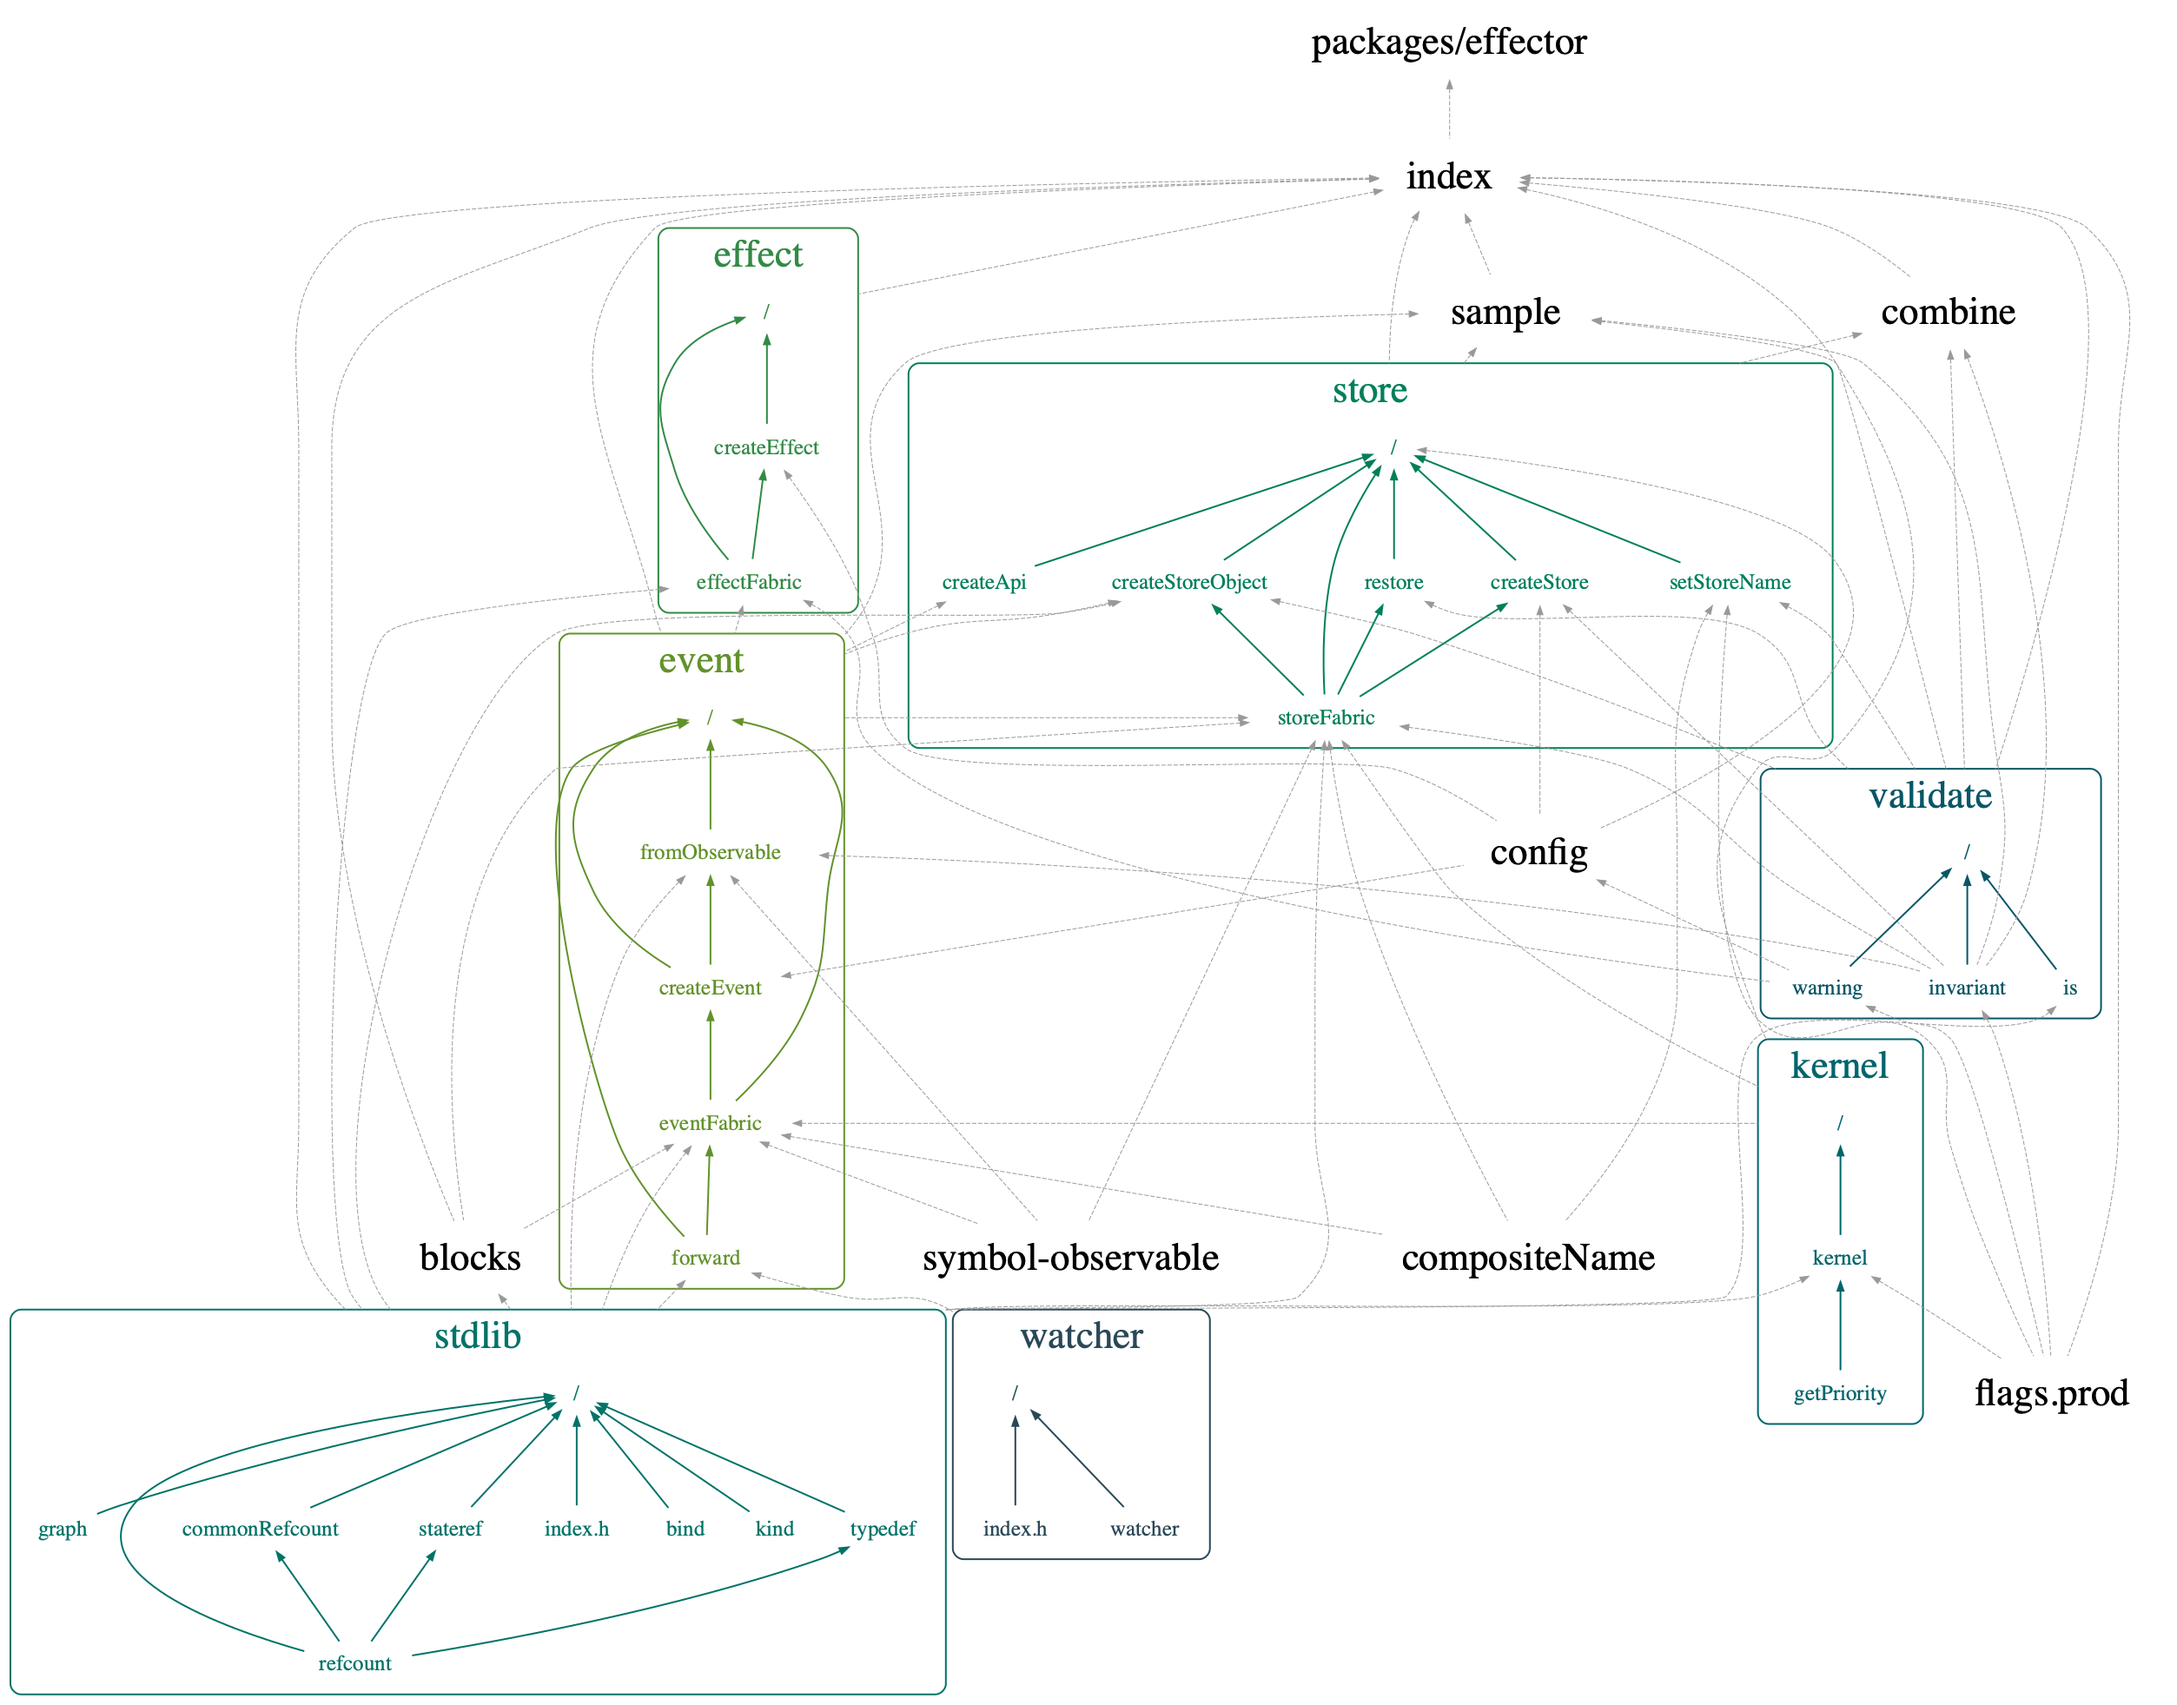
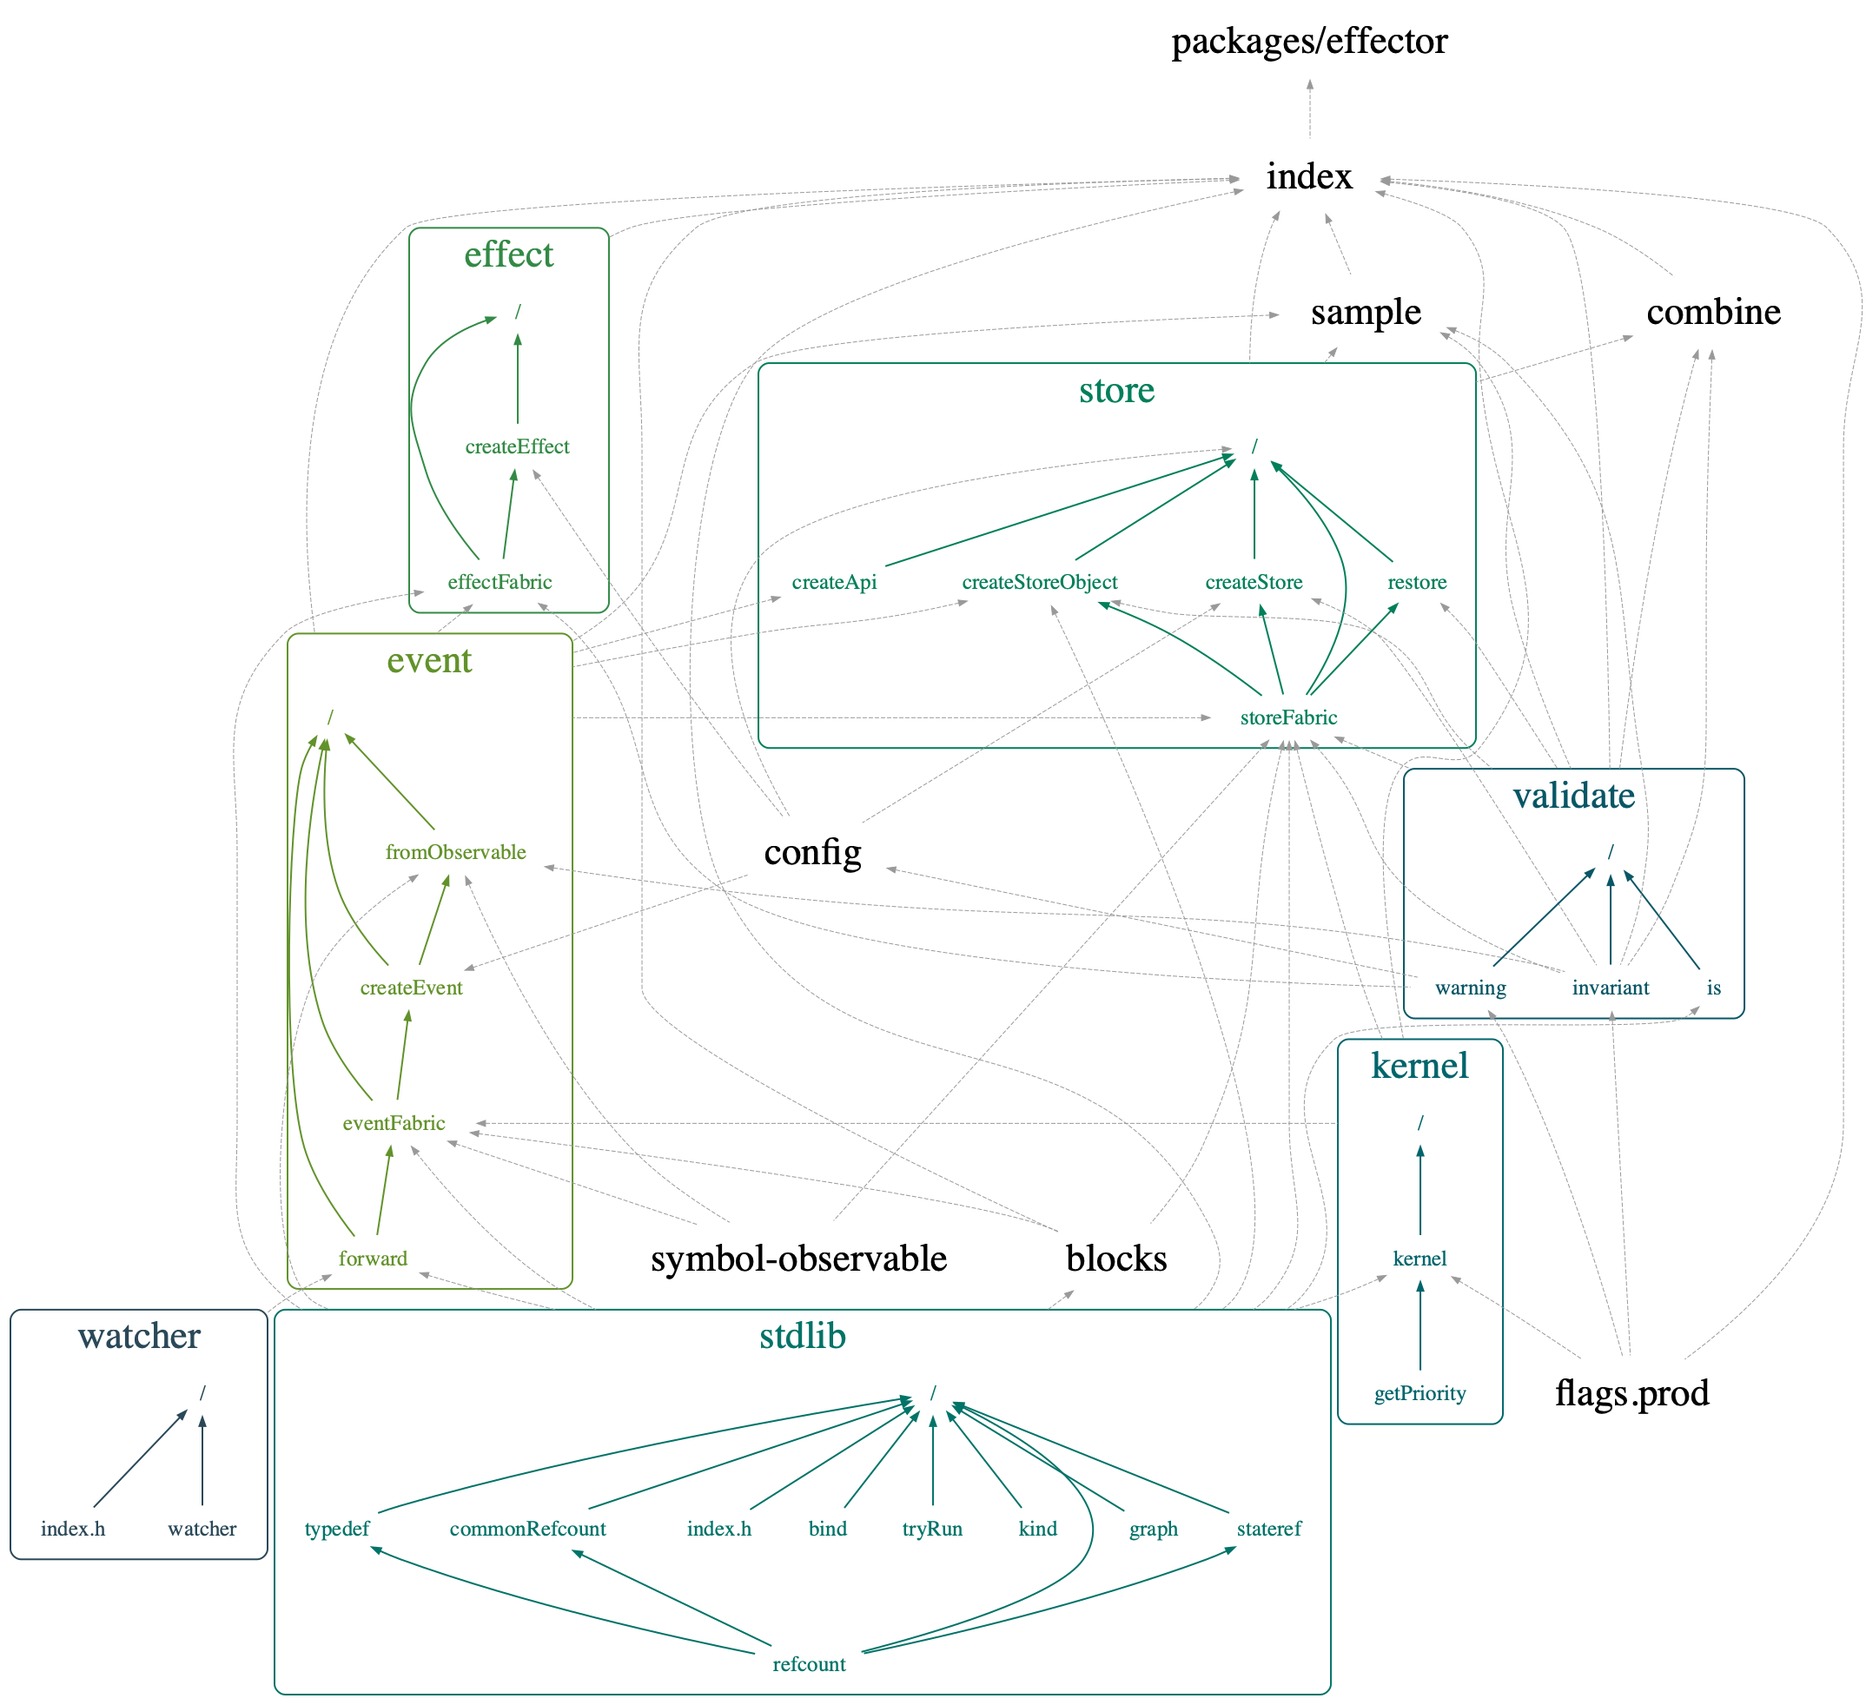
remove complex naming

diff --git a/src/effector/store/storeFabric.js b/src/effector/store/storeFabric.js
@@ -2,6 +2,7 @@
 import $$observable from 'symbol-observable'
 
 import invariant from 'invariant'
+import {is} from 'effector/validate'
 import {
   step,
   createGraph,
@@ -10,26 +11,24 @@ import {
   readRef,
   writeRef,
   bind,
+  initialRun,
   type Unit,
 } from 'effector/stdlib'
 import {filterChanged, noop} from 'effector/blocks'
 import type {Store} from './index.h'
 import type {Subscriber} from '../index.h'
 import type {StoreConfigPart as ConfigPart} from '../config'
-import {createName, type CompositeName} from '../compositeName'
 
 import {launch} from 'effector/kernel'
-import {forward, type Event} from 'effector/event'
+import {forward} from 'effector/event'
 
 export function storeFabric<State>(props: {
   currentState: State,
   config?: ConfigPart,
-  parent?: CompositeName,
 }): Store<State> {
-  const {currentState, config = {}, parent} = props
+  const {currentState, config = {}} = props
   const plainState = createStateRef(currentState)
   const currentId = config.name ?? plainState.id
-  const compositeName = createName(currentId, parent)
 
   const graphite = createGraph({
     scope: {state: plainState, oldState: currentState},
@@ -51,7 +50,6 @@ export function storeFabric<State>(props: {
   })
 
   const store: $Shape<Store<State>> = {
-    compositeName,
     graphite,
     kind: Kind.store,
     id: plainState.id,
@@ -77,7 +75,7 @@ export function storeFabric<State>(props: {
 const reset = (storeInstance, event: Unit) =>
   on(storeInstance, event, () => storeInstance.defaultState)
 
-function off({subscribers}, event: Unit) {
+const off = ({subscribers}, event: Unit) => {
   const currentSubscription = subscribers.get(event)
   if (currentSubscription === undefined) return
   currentSubscription()
@@ -112,7 +110,7 @@ const on = (storeInstance, from: Unit, handler: Function) => {
   )
   return storeInstance
 }
-function observable(storeInstance) {
+const observable = storeInstance => {
   const result = {
     subscribe(observer: Subscriber<any>) {
       invariant(
@@ -132,21 +130,27 @@ function observable(storeInstance) {
   }
   return result
 }
-function watch(storeInstance, eventOrFn: Event<*> | Function, fn?: Function) {
+function watch(storeInstance, eventOrFn: Unit | Function, fn?: Function) {
   const message = 'watch requires function handler'
-  switch (eventOrFn?.kind) {
-    case 'store':
-    case 'event':
-    case 'effect':
-      invariant(typeof fn === 'function', message)
-      return eventOrFn.watch(payload =>
-        //$todo
-        fn(storeInstance.getState(), payload),
-      )
-    default:
-      invariant(typeof eventOrFn === 'function', message)
-      return subscribe(storeInstance, eventOrFn)
+  if (is.unit(eventOrFn)) {
+    invariant(typeof fn === 'function', message)
+    //TODO we need to push update immediately in case of store, aren't we?
+    //note that in another watch case it already implemented
+    return forward({
+      from: (eventOrFn: any),
+      to: createGraph({
+        scope: {handler: fn, state: storeInstance.stateRef},
+        node: [
+          noop,
+          step.run({
+            fn: (upd, {handler, state}) => handler(readRef(state), upd),
+          }),
+        ],
+      }),
+    })
   }
+  invariant(typeof eventOrFn === 'function', message)
+  return subscribe(storeInstance, eventOrFn)
 }
 function subscribe(storeInstance, listener: Function) {
   invariant(
@@ -154,12 +158,7 @@ function subscribe(storeInstance, listener: Function) {
     'Expected the listener to be a function',
   )
   let lastCall = storeInstance.getState()
-
-  try {
-    listener(lastCall)
-  } catch (err) {
-    console.error(err)
-  }
+  initialRun(() => listener(lastCall))
   return forward({
     from: storeInstance,
     to: createGraph({
@@ -186,14 +185,8 @@ function mapStore<A, B>(
   fn: (state: A, lastState?: B) => B,
   firstState?: B,
 ): Store<B> {
-  let lastResult
-  try {
-    lastResult = fn(store.getState(), firstState)
-  } catch (err) {
-    console.error(err)
-  }
   const innerStore: Store<any> = storeFabric({
-    currentState: lastResult,
+    currentState: initialRun(() => fn(store.getState(), firstState)),
   })
   forward({
     from: store,

diff --git a/src/effector/event/eventFabric.js b/src/effector/event/eventFabric.js
@@ -16,7 +16,6 @@ import {noop, updateHandler} from 'effector/blocks'
 import type {Subscription} from '../index.h'
 import type {EventConfigPart} from '../config'
 import type {Event} from './index.h'
-import {createName} from '../compositeName'
 import {forward} from './forward'
 
 const nextID = stringRefcount()
@@ -30,12 +29,10 @@ export function eventFabric<Payload>({
 } = {}): Event<Payload> {
   const id = nextID()
   const name = nameRaw || id
-  const compositeName = createName(name)
-  const fullName = compositeName.fullName
   const graphite = createGraph({
     node: [
       step.emit({
-        fullName,
+        fullName: name,
       }),
     ],
   })
@@ -55,7 +52,6 @@ export function eventFabric<Payload>({
   ;(instance: any).subscribe = bind(subscribe, instance)
   instance.graphite = graphite
   instance.shortName = name
-  instance.compositeName = compositeName
   instance.defaultConfig = config
 
   return instance

diff --git a/src/effector/effect/index.h.js b/src/effector/effect/index.h.js
@@ -2,7 +2,6 @@
 import type {Subscription, Subscriber} from '../index.h'
 import type {kind, Graph, Unit} from 'effector/stdlib'
 import type {Event} from 'effector/event'
-import type {CompositeName} from '../compositeName'
 
 export type Effect<Params, Done, Fail = Error> = /*::interface extends Unit*/ {
   /*::
@@ -25,7 +24,6 @@ export type Effect<Params, Done, Fail = Error> = /*::interface extends Unit*/ {
   +kind: kind,
   shortName: string,
   graphite: Graph,
-  compositeName: CompositeName,
 }
 
 export type FnEffect<Params, Done, Fail = Error, +Fn = Function> = {
@@ -49,7 +47,6 @@ export type FnEffect<Params, Done, Fail = Error, +Fn = Function> = {
   +kind: kind,
   shortName: string,
   graphite: Graph,
-  compositeName: CompositeName,
 }
 
 export type Thunk<Args, Done> = (_: Args) => Promise<Done>

diff --git a/src/effector/kernel/__tests__/leftist.test.js b/src/effector/kernel/__tests__/leftist.test.js
@@ -1,5 +1,6 @@
 //@flow
 import faker from 'faker'
+import * as fs from 'fs-extra'
 // import prettyHrtime from 'pretty-hrtime'
 import {singleton, insert, iterate, type leftist} from '../leftist'
 class Cmd {
@@ -50,7 +51,7 @@ test('it works', () => {
 
   // console.table((iterate(threeTree, cmdGreaterThan): any))
 })
-test('stress', () => {
+test('stress', async() => {
   const AMOUNT = 100
   faker.seed(0xdeadbeef)
   const namesSet = Array.from({length: AMOUNT}, () => faker.name.firstName())
@@ -80,5 +81,6 @@ test('stress', () => {
   expect(order).toMatchSnapshot()
   expect(tree).toMatchSnapshot()
 
-  // console.table((order: any))
+  console.table((order: any))
+  await fs.outputJSON(__dirname + '/out.json', cmds)
 })

diff --git a/src/effector/store/index.h.js b/src/effector/store/index.h.js
@@ -3,7 +3,6 @@ import type {Subscription} from '../index.h'
 import type {Graph, kind, StateRef, ID, Unit} from 'effector/stdlib'
 import type {Event} from 'effector/event'
 import type {Effect} from 'effector/effect'
-import type {CompositeName} from '../compositeName'
 import type {StoreConfigPart} from '../config'
 
 export type Store<State> = /*::interface extends Unit*/ {
@@ -55,6 +54,5 @@ export type Store<State> = /*::interface extends Unit*/ {
   +defaultState: State,
   shortName: string,
   +graphite: Graph,
-  compositeName?: CompositeName,
   defaultConfig: StoreConfigPart,
 }

diff --git a/src/effector/event/index.h.js b/src/effector/event/index.h.js
@@ -1,7 +1,6 @@
 //@flow
 import type {Subscription, Subscriber} from '../index.h'
 import type {kind, Graph, Unit} from 'effector/stdlib'
-import type {CompositeName} from '../compositeName'
 
 export type Event<E> = /*::interface extends Unit*/ {
   /*::
@@ -17,5 +16,4 @@ export type Event<E> = /*::interface extends Unit*/ {
   /*::+*/ kind: kind,
   shortName: string,
   graphite: Graph,
-  compositeName: CompositeName,
 }

diff --git a/src/effector/store/index.js b/src/effector/store/index.js
@@ -3,7 +3,6 @@
 export {storeFabric} from './storeFabric'
 export {normalizeConfig} from '../config'
 export {createStore} from './createStore'
-export {setStoreName, storeNaming} from './setStoreName'
 export {createStoreObject} from './createStoreObject'
 export {createApi} from './createApi'
 export {restore, restoreEvent, restoreEffect, restoreObject} from './restore'

diff --git a/src/effector/store/__tests__/naming.test.js b/src/effector/store/__tests__/naming.test.js
@@ -5,7 +5,7 @@ import {createStore, createStoreObject} from 'effector/store'
 import {storeNaming} from '../setStoreName'
 import {unitObjectName} from '../../naming'
 
-describe('naming', () => {
+describe.skip('naming', () => {
   test.skip("doesn't accept wrong types", () => {
     const spy = jest.spyOn(global.console, 'warn')
     const foo = createEvent('foo')

diff --git a/src/babel/__tests__/raw-config.test.js b/src/babel/__tests__/raw-config.test.js
@@ -22,7 +22,7 @@ describe('raw config', () => {
     expect(readFullName(bar)).toBe('foo')
   })
 
-  it('should ignore wrong config', () => {
+  it.skip('should ignore wrong config', () => {
     const a = createStore('h', {})
     //$off
     const b = createStore('h', 23020)

diff --git a/src/effector/index.js b/src/effector/index.js
@@ -19,7 +19,6 @@ export type {Store} from 'effector/store'
 export {
   createStore,
   createStoreObject,
-  setStoreName,
   createApi,
   restore,
   restoreEvent,

diff --git a/src/effector/stdlib/index.js b/src/effector/stdlib/index.js
@@ -9,3 +9,4 @@ export * from './refcount'
 export * from './commonRefcount'
 export * from './index.h'
 export * from './bind'
+export * from './tryRun'

diff --git a/src/effector/perf/__tests__/perf.test.js b/src/effector/perf/__tests__/perf.test.js
@@ -1,6 +1,6 @@
 //@flow
 
-describe('perf', () => {
+describe.skip('perf', () => {
   let effector /*:: = require('effector') */
 
   let root
